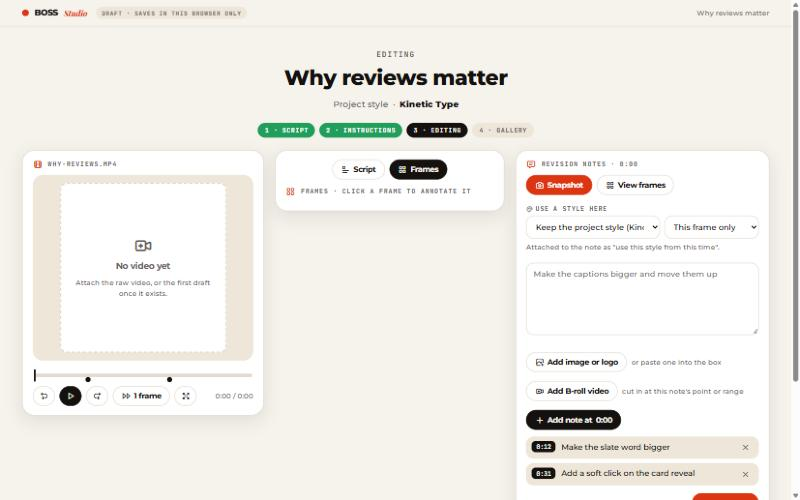
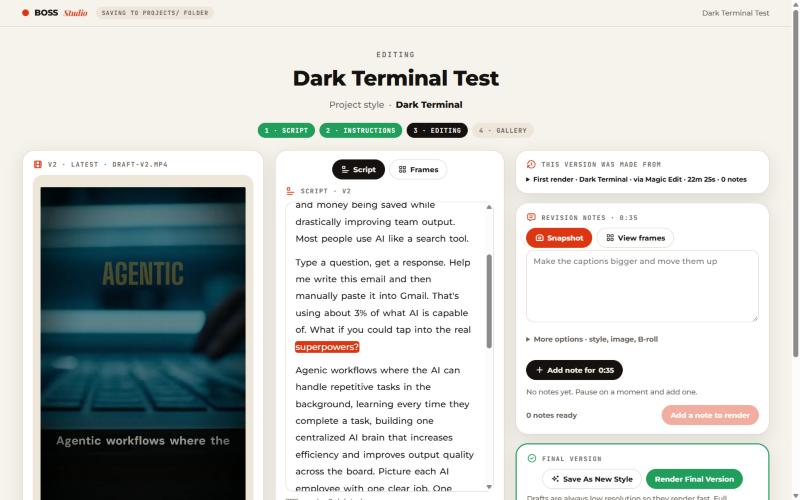
Hub hero: new BOSS mascot graphic, animated grid/glows/particles with pointer parallax, typewriter headline word; real editing screenshot in How it works

diff --git a/hub/app.js b/hub/app.js
@@ -200,11 +200,11 @@
     <div class="ovhero">
       <div>
         <div class="eyebrow">BOSS Studio</div>
-        <h1>Your vision. <i>BOSS</i> does the editing.</h1>
+        <h1>Your vision. <i>BOSS</i> does the <span class="tw">edits</span>.</h1>
         <p class="lede">Turn your raw footage into polished videos with AI-powered editing. Upload your video, choose a style, and tell BOSS what you want. Review your edit and request changes in plain language.</p>
         <p style="margin-top:22px"><a class="btn app-cta" href="#studio">Start creating</a></p>
       </div>
-      <div class="studio mascot-wrap"><img class="mascot" src="assets/img/boss-mascot-scene.webp" width="1254" height="1254" alt="BOSS, the studio mascot: a French bulldog in a black jacket and headphones, holding a tablet with a play button, surrounded by Claude Code, AI Scripts and AI Voice icons and a video timeline" fetchpriority="high"></div>
+      <div class="studio mascot-wrap"><img class="mascot" src="assets/img/boss-hero.webp" width="1293" height="1173" alt="BOSS, the studio mascot: a French bulldog in an orange hoodie, cap and headphones, holding a video camera, surrounded by AI, clapperboard, film and timeline icons" fetchpriority="high"></div>
     </div>
     </div>
     <div class="band stats-band">
@@ -280,7 +280,7 @@
       <p class="lede">Four steps across the top of every project: Script, Instructions, Editing, Gallery. You review and send notes; BOSS (Claude) does the editing.</p>
       <div class="shots">
         <figure><img src="assets/img/app-1-new.jpg" alt="New project screen in BOSS Studio" loading="lazy"><figcaption><b>1 · Create a project.</b> Name it, drop a video or just a voiceover, write your first prompt, pick a style and a format. Add reference links to copy another video's editing, or press <b>Magic Edit</b> to let BOSS decide everything.</figcaption></figure>
-        <figure><img src="assets/img/app-2-editing.jpg" alt="Editing step in BOSS Studio with video, script or frames, and revision notes" loading="lazy"><figcaption><b>2 · Edit with notes.</b> Watch the draft, switch between <b>Script</b> and <b>Frames</b>, take a <b>Snapshot</b>, write revision notes (add an image or B-roll to any note), then press <b>Render Draft</b>.</figcaption></figure>
+        <figure><img src="assets/img/app-2-editing.jpg?v=2" alt="Editing step in BOSS Studio with video, script or frames, and revision notes" loading="lazy"><figcaption><b>2 · Edit with notes.</b> Watch the draft, switch between <b>Script</b> and <b>Frames</b>, take a <b>Snapshot</b>, write revision notes (add an image or B-roll to any note), then press <b>Render Draft</b>.</figcaption></figure>
       </div>
       <div class="steps appnotes">
         <div class="step"><h3>Script</h3><p>Click any word to jump there and cut what you don't want. Voiceover-only projects generate the voice here.</p></div>
@@ -736,6 +736,82 @@
   document.addEventListener('play', (e) => {
     if (e.target.tagName === 'VIDEO' && e.target.closest('.track')) document.querySelectorAll('.track video').forEach((v) => { if (v !== e.target) v.pause(); });
   }, true);
+  // hero headline typewriter: the last word types and deletes through the steps of an edit (the HTML keeps "edits" as the fallback)
+  if (!matchMedia('(prefers-reduced-motion:reduce)').matches) {
+    const words = ['script', 'voice', 'cutting', 'sound', 'music', 'style', 'edits', 'renders'];
+    const colors = ['#4d8dff', '#ff3fb4', '#ff6a2b', '#35d6ee', '#a874ff', '#ffc83a', '#ff6a2b', '#4d8dff']; // picked from the mascot graphic
+    let i = -1, n = 'edits'.length, erasing = true, started = false;
+    const tw = () => document.querySelector('.tw');
+    (function step() {
+      const el = tw(); if (!el) return setTimeout(step, 600);
+      const w = erasing ? el.textContent : words[i];
+      if (erasing) {
+        if (!started) { started = true; return setTimeout(step, 1800); }
+        el.textContent = w.slice(0, --n);
+        if (n <= 0) { erasing = false; i = (i + 1) % words.length; }
+        return setTimeout(step, 45);
+      }
+      el.style.color = colors[i]; el.textContent = w.slice(0, ++n);
+      if (n >= w.length) { erasing = true; return setTimeout(step, 1500); }
+      setTimeout(step, 85);
+    })();
+  }
+  // hero particles: drifting orange/white dots that link up when close, like a small neural net; pauses off-screen
+  if (!matchMedia('(prefers-reduced-motion:reduce)').matches) {
+    let cv, ctx, dots = [], W = 0, H = 0, mx = -1e4, my = -1e4;
+    const mk = () => ({ x: Math.random() * W, y: Math.random() * H, vx: (Math.random() - 0.5) * 0.35, vy: (Math.random() - 0.5) * 0.35, r: 1 + Math.random() * 1.6, o: Math.random() < 0.6 });
+    const frame = () => {
+      requestAnimationFrame(frame);
+      const hero = document.querySelector('.hero-grid');
+      if (!hero || document.hidden) return;
+      if (!cv || cv.parentNode !== hero) {
+        cv = document.createElement('canvas'); cv.className = 'hero-fx'; hero.appendChild(cv); ctx = cv.getContext('2d'); W = 0;
+      }
+      const r = hero.getBoundingClientRect();
+      if (r.bottom < 0 || r.top > innerHeight) return;
+      if (cv.clientWidth !== W || cv.clientHeight !== H) {
+        W = cv.clientWidth; H = cv.clientHeight; const d = devicePixelRatio || 1;
+        cv.width = W * d; cv.height = H * d; ctx.setTransform(d, 0, 0, d, 0, 0);
+        dots = Array.from({ length: Math.round(W * H / 11000) }, mk);
+      }
+      ctx.clearRect(0, 0, W, H);
+      for (const p of dots) {
+        p.x += p.vx; p.y += p.vy;
+        if (p.x < 0 || p.x > W) p.vx *= -1;
+        if (p.y < 0 || p.y > H) p.vy *= -1;
+      }
+      for (let i = 0; i < dots.length; i++) {
+        const p = dots[i];
+        for (let j = i + 1; j < dots.length; j++) {
+          const q = dots[j], d = Math.hypot(p.x - q.x, p.y - q.y);
+          if (d < 120) { ctx.strokeStyle = 'rgba(255,120,70,' + (0.22 * (1 - d / 120)).toFixed(3) + ')'; ctx.beginPath(); ctx.moveTo(p.x, p.y); ctx.lineTo(q.x, q.y); ctx.stroke(); }
+        }
+        const near = Math.hypot(p.x - mx, p.y - my) < 140;
+        ctx.fillStyle = p.o ? (near ? '#ff9a6b' : '#ff5a2e') : (near ? '#fff' : 'rgba(246,243,236,.7)');
+        ctx.beginPath(); ctx.arc(p.x, p.y, p.r + (near ? 1 : 0), 0, 6.283); ctx.fill();
+      }
+    };
+    document.addEventListener('pointermove', (e) => { if (cv) { const b = cv.getBoundingClientRect(); mx = e.clientX - b.left; my = e.clientY - b.top; } });
+    requestAnimationFrame(frame);
+  }
+  // hero parallax: the pointer position (eased) moves the background layers by different amounts
+  if (!matchMedia('(prefers-reduced-motion:reduce)').matches) {
+    let tx = 0, ty = 0, x = 0, y = 0, on = false;
+    const tick = () => {
+      x += (tx - x) * 0.08; y += (ty - y) * 0.08;
+      const h = document.querySelector('.hero-grid');
+      if (h) { h.style.setProperty('--px', x.toFixed(3)); h.style.setProperty('--py', y.toFixed(3)); }
+      on = Math.abs(tx - x) + Math.abs(ty - y) > 0.002;
+      if (on) requestAnimationFrame(tick);
+    };
+    document.addEventListener('pointermove', (e) => {
+      const h = document.querySelector('.hero-grid'); if (!h) return;
+      const r = h.getBoundingClientRect();
+      tx = Math.max(-1, Math.min(1, ((e.clientX - r.left) / r.width - 0.5) * 2));
+      ty = Math.max(-1, Math.min(1, ((e.clientY - r.top) / r.height - 0.5) * 2));
+      if (!on) { on = true; requestAnimationFrame(tick); }
+    });
+  }
   route();
   document.querySelectorAll('.track').forEach(carState);
 })();

diff --git a/hub/style.css b/hub/style.css
@@ -312,15 +312,15 @@ main.wide>.hero-band{background:var(--hero-bg);color:var(--hero-fg);padding-top:
 .hero-grid{position:relative;overflow-x:clip;overflow-y:visible;isolation:isolate;z-index:2}
 .hero-grid::before{content:"";position:absolute;inset:0;z-index:-1;pointer-events:none;
   background-image:linear-gradient(rgba(246,243,236,.12) 1px,transparent 1px),linear-gradient(90deg,rgba(246,243,236,.12) 1px,transparent 1px);
-  background-size:56px 56px;background-position:center top;
+  background-size:56px 56px;background-position:calc(50% + var(--px,0)*-18px) calc(var(--gy,0px) + var(--py,0)*-18px);animation:gridDrift 14s linear infinite;
   -webkit-mask-image:radial-gradient(ellipse 100% 115% at 60% 48%,#000 25%,transparent 85%);mask-image:radial-gradient(ellipse 100% 115% at 60% 48%,#000 25%,transparent 85%)}
-.hero-grid::after{content:"";position:absolute;z-index:-1;pointer-events:none;width:640px;height:640px;right:max(-160px,calc((100vw - 1180px)/-2));top:-170px;background:radial-gradient(circle,rgba(220,46,10,.20),transparent 66%)}
+.hero-grid::after{content:"";position:absolute;z-index:-1;pointer-events:none;width:640px;height:640px;right:max(-160px,calc((100vw - 1180px)/-2));top:-170px;background:radial-gradient(circle,rgba(220,46,10,.20),transparent 66%);translate:calc(var(--px,0)*-36px) calc(var(--py,0)*-24px);animation:glowFloat 9s ease-in-out infinite}
 
 /* mascot on the Overview hero: a warm orange glow behind it, soft shadow under it */
-.mascot-wrap{position:relative;align-self:stretch;min-height:400px;margin-left:-80px}
-.mascot-wrap::before{content:"";position:absolute;left:50%;top:52%;width:min(440px,92%);aspect-ratio:1;transform:translate(-50%,-50%);border-radius:50%;background:radial-gradient(circle,rgba(220,46,10,.42),rgba(220,46,10,0) 68%);pointer-events:none}
+.mascot-wrap{position:relative;align-self:stretch;min-height:400px;margin-left:0}
+.mascot-wrap::before{content:"";position:absolute;left:50%;top:52%;width:min(440px,92%);aspect-ratio:1;transform:translate(-50%,-50%);border-radius:50%;background:radial-gradient(circle,rgba(220,46,10,.42),rgba(220,46,10,0) 68%);pointer-events:none;animation:glowPulse 5s ease-in-out infinite}
 /* fills the hero height and runs 100px past the bottom edge, over the next band, for depth */
-.mascot{position:absolute;left:0;bottom:-100px;width:100%;height:calc(100% + 140px);object-fit:contain;object-position:left bottom;pointer-events:none;filter:drop-shadow(0 18px 22px rgba(0,0,0,.45))}
+.mascot{position:absolute;left:-6%;bottom:-100px;width:140%;max-width:none;height:calc(100% + 140px);object-fit:contain;object-position:left bottom;pointer-events:none;filter:drop-shadow(0 18px 22px rgba(0,0,0,.45));translate:calc(var(--px,0)*14px) calc(var(--py,0)*10px);animation:mascotBob 6s ease-in-out infinite}
 @media(max-width:860px){.mascot-wrap{min-height:0;margin-left:0}.mascot{position:relative;left:auto;bottom:auto;width:auto;height:auto;max-height:380px;max-width:100%}}
 
 /* chips and stats sit on their own lighter band under the slider */
@@ -431,3 +431,19 @@ main.wide>.stats-band{background:#E7E3DA;padding-top:34px;padding-bottom:42px;bo
 @media(max-width:900px){.vs{grid-template-columns:1fr}}
 .cs-hero{text-align:center}
 .cs-hero .lede{margin-left:auto;margin-right:auto}
+
+/* hero motion: the grid drifts, the glows breathe, the mascot bobs; the pointer adds parallax (see app.js) */
+@property --gy{syntax:"<length>";inherits:true;initial-value:0px}
+@keyframes gridDrift{to{--gy:56px}}
+@keyframes glowFloat{50%{transform:translate(-30px,26px) scale(1.12)}}
+@keyframes glowPulse{50%{transform:translate(-50%,-50%) scale(1.18);opacity:.75}}
+@keyframes mascotBob{50%{transform:translateY(-10px)}}
+@media(prefers-reduced-motion:reduce){.hero-grid::before,.hero-grid::after,.mascot,.mascot-wrap::before{animation:none}}
+
+/* headline typewriter word: nowrap so it never splits across lines, blinking caret after it */
+.tw{white-space:nowrap;color:var(--hero-accent)}
+.tw::after{content:"";display:inline-block;width:.07em;height:.85em;margin-left:.06em;vertical-align:-.06em;background:currentColor;animation:twBlink 1s steps(1) infinite}
+@keyframes twBlink{50%{opacity:0}}
+@media(prefers-reduced-motion:reduce){.tw::after{display:none}}
+
+.hero-fx{position:absolute;inset:0;width:100%;height:100%;z-index:-1;pointer-events:none}

diff --git a/hub/index.html b/hub/index.html
@@ -6,7 +6,7 @@
 <title>BOSS Studio</title>
 <link rel="preconnect" href="https://fonts.googleapis.com">
 <link href="https://fonts.googleapis.com/css2?family=Montserrat:wght@500;700;800&family=Playfair+Display:ital,wght@1,700&family=JetBrains+Mono:wght@500;700&display=swap" rel="stylesheet">
-<link rel="stylesheet" href="style.css?v=38">
+<link rel="stylesheet" href="style.css?v=48">
 </head>
 <body>
 <header class="top">
@@ -24,6 +24,6 @@
 <script>window.HUB_BASE = '../';</script>
 <script src="data.js?v=15"></script>
 <script src="my-styles.js"></script>
-<script src="app.js?v=38"></script>
+<script src="app.js?v=48"></script>
 </body>
 </html>
